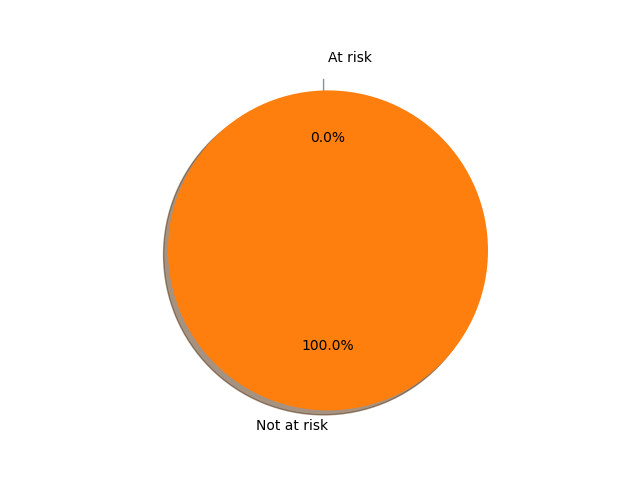
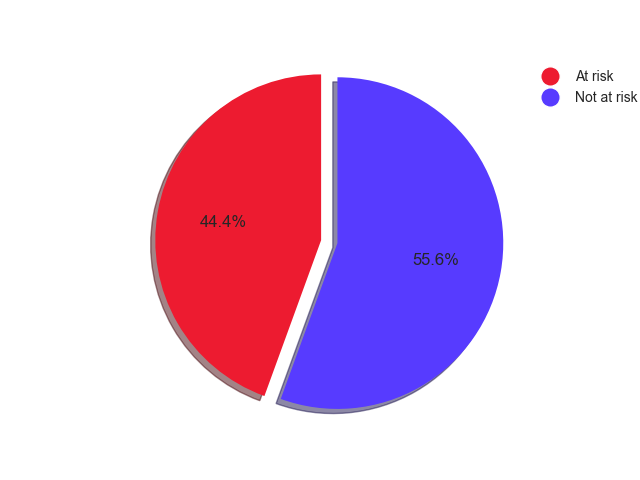
Updated statistics page

diff --git a/frontend-medical-chatbot/src/app/user-experience/user-experience.component.html b/frontend-medical-chatbot/src/app/user-experience/user-experience.component.html
@@ -12,22 +12,22 @@
           <div class="col-sm-4 text-center statistic-tile">
               <div class="tile blue">
                 <h3 class="title">Heart disease prediction</h3>
-                <img src="../../assets/images/statistics/faq.PNG" class="statistics-tile-image img-fluid ">
-                <p>Short, sweet data point goes here.</p>
+                <img src="../../assets/images/statistics/users_asked_for_cvd_prediction.png" class="statistics-tile-image img-fluid ">
+                <!-- <p>Short, sweet data point goes here.</p> -->
               </div>
           </div>
           <div class="col-sm-4 text-center statistic-tile">
               <div class="tile blue">
-                <h3 class="title">Users that found advice useful</h3>
-                <img src="../../assets/images/statistics/faq.PNG" class="statistics-tile-image img-fluid ">
-                <p>Short, sweet data point goes here.</p>
+                <h3 class="title">Users found advice useful</h3>
+                <img src="../../assets/images/statistics/users_found_advice_useful.png" class="statistics-tile-image img-fluid ">
+                <!-- <p>Short, sweet data point goes here.</p> -->
               </div>
           </div>
           <div class="col-sm-4 text-center statistic-tile">
             <div class="tile blue">
               <h3 class="title">Users asked FAQ</h3>
-              <img src="../../assets/images/statistics/faq.PNG" class="statistics-tile-image img-fluid ">
-              <p>Short, sweet data point goes here.</p>
+              <img src="../../assets/images/statistics/users_asked_faq.png" class="statistics-tile-image img-fluid ">
+              <!-- <p>Short, sweet data point goes here.</p> -->
             </div>
         </div>
         </div>

diff --git a/frontend-medical-chatbot/src/app/app.component.html b/frontend-medical-chatbot/src/app/app.component.html
@@ -37,17 +37,17 @@
     <div class="collapse navbar-collapse" id="navbarResponsive">
       <ul class="navbar-nav ml-auto">
         <li class="nav-item">
-          <a class="nav-link text-secondary h6" href="#" routerLink = "/home" routerLinkActive= "active">HOME</a>           
+          <a class="nav-link text-secondary h6" href="#" routerLink = "/home" routerLinkActive= "active"><i class="bi bi-house-door"></i> HOME</a>           
         </li>
         <li class="nav-item">
-          <a class="nav-link text-secondary h6" href="#about">ABOUT</a>
+          <a class="nav-link text-secondary h6" href="#about"><i class="bi bi-info-square"></i> ABOUT</a>
         </li>
         <li class="nav-item">
-          <a class="nav-link text-secondary h6" href="#" routerLink = "/chatbot" routerLinkActive= "active">CHAT</a>
+          <a class="nav-link text-secondary h6" href="#" routerLink = "/chatbot" routerLinkActive= "active"><i class="bi bi-chat-left"></i> CHAT</a>
         </li>
         <li class="nav-item">
           <nav>
-            <a class="nav-link text-secondary h6" href="#" routerLink = "/user-experience" routerLinkActive= "active">USER EXPERIENCE</a>
+            <a class="nav-link text-secondary h6" href="#" routerLink = "/user-experience" routerLinkActive= "active"><i class="bi bi-people"></i> USER EXPERIENCE</a>
           </nav>
         </li>
       </ul>

diff --git a/frontend-medical-chatbot/src/app/user-experience/user-experience.component.css b/frontend-medical-chatbot/src/app/user-experience/user-experience.component.css
@@ -1,8 +1,19 @@
+@import "~bootstrap-icons/font/bootstrap-icons.css";
+
  body {
 	 font-size: 14px;
 	 line-height: 1.5em;
 	 font-weight: 400;
 }
+
+#user-experience{
+	background-color: aliceblue;
+}
+
+.bi-people{
+	font-size:36px;
+}
+
  strong {
 	 font-weight: 600;
 }
@@ -23,9 +34,16 @@
 	 margin-bottom: 10px;
      box-shadow: 5px 5px 5px rgb(198, 196, 196);
      border-radius: 5px;
+	 border-style: inset;
 }
  .tile .title {
 	 margin-top: 0px;
+	 color:black;
+	 font-weight:400;
+}
+
+.tile p {
+	color:black;
 }
  .tile.purple, .tile.blue, .tile.red, .tile.orange, .tile.green {
 	 color: #fff;
@@ -50,7 +68,8 @@
 }
  .tile.blue {
 	 /* background: #2672ec; */
-     background: #0A58D4;
+     /* background: #0A58D4; */
+	 background: rgb(255, 255, 255);
 
 }
  .tile.blue:hover {
@@ -67,6 +86,7 @@
 .statistics-tile-image{
     /* max-width: 300px;
     height:auto; */
+	max-width: 70%;
 }
 
 .statistic-tile{

diff --git a/frontend-medical-chatbot/src/app/app.component.css b/frontend-medical-chatbot/src/app/app.component.css
@@ -25,3 +25,7 @@
     
 }
 
+.bi-people{
+    font-size:18px;
+}
+

diff --git a/rasa-chatbot/compute_statistics/statistics.py b/rasa-chatbot/compute_statistics/statistics.py
@@ -3,6 +3,9 @@ from matplotlib import pyplot as plt
 from datetime import datetime
 from matplotlib import rcParams
 import numpy as np
+from math import pi
+from matplotlib.lines import Line2D
+
 
 class Statistics:
     def __init__(self, path):
@@ -71,14 +74,28 @@ class Statistics:
         plt.savefig('../frontend-medical-chatbot/src/assets/images/statistics/gender_ratio.png',transparent=True)
 
     def compute_statistics_cvd_prediction_ratio(self):
-        # Pie chart, where the slices will be ordered and plotted counter-clockwise:
         labels = 'At risk', 'Not at risk'
         sizes = [self.get_count_cvd_prediction_true(), self.get_count_cvd_prediction_false()]
         explode = (0.1, 0)  # only "explode" the 2nd slice (i.e. 'Hogs')
+        mycolors = ["#ED1B30", "#573BFF"]
         fig1, ax1 = plt.subplots()
-        ax1.pie(sizes, explode=explode, labels=labels, autopct='%1.1f%%',
+        ax1.pie(sizes, explode=explode, colors=mycolors, autopct='%1.1f%%', textprops={'fontsize': 12},
                 shadow=True, startangle=90)
         ax1.axis('equal')  # Equal aspect ratio ensures that pie is drawn as a circle.
+
+        legend_elements = [
+            Line2D([0], [0], marker='o', color='w', label='At risk', markerfacecolor='#ED1B30', markersize=14),
+            Line2D([0], [0], marker='o', color='w', label='Not at risk', markerfacecolor='#573BFF', markersize=14)]
+
+        plt.legend(handles=legend_elements, bbox_to_anchor=(1.15, 1), frameon=False)
+        # Pie chart, where the slices will be ordered and plotted counter-clockwise:
+        # labels = 'At risk', 'Not at risk'
+        # sizes = [self.get_count_cvd_prediction_true(), self.get_count_cvd_prediction_false()]
+        # explode = (0.1, 0)  # only "explode" the 2nd slice (i.e. 'Hogs')
+        # fig1, ax1 = plt.subplots()
+        # ax1.pie(sizes, explode=explode, labels=labels, autopct='%1.1f%%',
+        #         shadow=True, startangle=90)
+        # ax1.axis('equal')  # Equal aspect ratio ensures that pie is drawn as a circle.
         # plt.show()
         plt.savefig('../frontend-medical-chatbot/src/assets/images/statistics/cvd_prediction_ratio.png',transparent=True)
 
@@ -92,12 +109,12 @@ class Statistics:
         width = 0.35  # the width of the bars
 
         fig, ax = plt.subplots()
-        rects1 = ax.bar(x + width/2, no_means, width, label='No')
-        rects2 = ax.bar(x - width/2, yes_means, width, label='Yes')
+        rects1 = ax.bar(x + width/2, no_means, width, label='No', color='#00C3F9')
+        rects2 = ax.bar(x - width/2, yes_means, width, label='Yes', color='#ED1B30')
 
         # Add some text for labels, title and custom x-axis tick labels, etc.
         ax.set_ylabel('Scores')
-        ax.set_title('User habits')
+        # ax.set_title('User habits')
         ax.set_xticks(x, labels)
         ax.legend()
         ax.bar_label(rects1, padding=3)
@@ -109,21 +126,40 @@ class Statistics:
         # plt.show()
         plt.savefig('../frontend-medical-chatbot/src/assets/images/statistics/user_habits.png',transparent=True)
     def compute_statistics_users_blood_pressure(self):
-        # Pie chart, where the slices will be ordered and plotted counter-clockwise:
         labels = 'Low', 'Normal', 'Elevated', "Hypertension"
         sizes = [self.get_count_user_has_low_bp(), self.get_count_user_has_normal_bp(),self.get_count_user_has_elevated_bp(), self.get_count_user_has_hypertension_bp()]
         explode = (0, 0, 0.1, 0)  # only "explode" the 2nd slice (i.e. 'Hogs')
-
+        mycolors = ["#00C3F9", "#573BFF", "#FF4756", "#ED1B30"]
         fig1, ax1 = plt.subplots()
-        ax1.pie(sizes, explode=explode, labels=labels, autopct='%1.1f%%',
+        ax1.pie(sizes, explode=explode, colors=mycolors, autopct='%1.1f%%', textprops={'fontsize': 12},
                 shadow=True, startangle=90)
         ax1.axis('equal')  # Equal aspect ratio ensures that pie is drawn as a circle.
+
+        legend_elements = [
+            Line2D([0], [0], marker='o', color='w', label='Low', markerfacecolor='#00C3F9', markersize=14),
+            Line2D([0], [0], marker='o', color='w', label='Normal', markerfacecolor='#573BFF', markersize=14),
+            Line2D([0], [0], marker='o', color='w', label='Elevated', markerfacecolor='#FF4756', markersize=14),
+            Line2D([0], [0], marker='o', color='w', label='Hypertension', markerfacecolor='#ED1B30', markersize=14)]
+
+        plt.legend(handles=legend_elements, bbox_to_anchor=(1.15, 1), frameon=False)
+
+
+        # # Pie chart, where the slices will be ordered and plotted counter-clockwise:
+        # labels = 'Low', 'Normal', 'Elevated', "Hypertension"
+        # sizes = [self.get_count_user_has_low_bp(), self.get_count_user_has_normal_bp(),self.get_count_user_has_elevated_bp(), self.get_count_user_has_hypertension_bp()]
+        # explode = (0, 0, 0.1, 0)  # only "explode" the 2nd slice (i.e. 'Hogs')
+        #
+        # fig1, ax1 = plt.subplots()
+        # ax1.pie(sizes, explode=explode, labels=labels, autopct='%1.1f%%',
+        #         shadow=True, startangle=90)
+        # ax1.axis('equal')  # Equal aspect ratio ensures that pie is drawn as a circle.
 
         # plt.show()
         plt.savefig('../frontend-medical-chatbot/src/assets/images/statistics/users_blood_pressure.png',transparent=True)
 
 
     def compute_statistics_user_responses_by_month(self):
+        plt.style.use("seaborn-darkgrid")
         current_year = datetime.now().year
         current_month = datetime.now().month
         self.data['timestamp'] = pd.to_datetime(self.data['timestamp'], format="%Y-%m-%d %H:%M:%S")
@@ -152,46 +188,84 @@ class Statistics:
 
         plt.ylim(0)
 
-        plt.fill_between(months, responses_array)
+        # plt.fill_between(months, responses_array)
         plt.xlabel("Month")
         plt.ylabel("Number of responses")
-        plt.title("Number of entries")
+        # plt.title("Number of entries")
 
         # plt.show()
         plt.savefig('../frontend-medical-chatbot/src/assets/images/statistics/graph_queries_by_month.png',transparent=True)
 
 
     def compute_statistics_users_found_advice_useful(self):
-        fig, ax = plt.subplots(figsize=(6, 6))
-        wedgeprops = {'width':0.3, 'edgecolor':'black', 'linewidth':3}
-        ax.pie([self.get_count_found_advice_useful(),self.get_count_asked_for_advice()-self.get_count_found_advice_useful()], wedgeprops=wedgeprops, startangle=90, colors=['#5DADE2', '#515A5A'])
-        plt.title('Users found advice useful', fontsize=24, loc='left')
-        percentage = round((self.get_count_found_advice_useful()/self.get_count_asked_for_advice())*100, 1)
-        plt.text(0, 0, str(percentage)+"%", ha='center', va='center', fontsize=42)
-        # plt.show()
+        fig, ax = plt.subplots(figsize=(6, 6), subplot_kw={'projection': 'polar'})
+        data = round((self.get_count_found_advice_useful()/self.get_count_asked_for_advice())*100, 1)
+        startangle = 90
+        x = (data * pi * 2) / 100
+        left = (startangle * pi * 2) / 360  # this is to control where the bar starts
+        plt.xticks([])
+        plt.yticks([])
+        ax.spines.clear()
+        ax.barh(1, x, left=left, height=1, color='#ED1B30')
+        plt.ylim(-3, 3)
+        plt.text(0, -3, str(data)+"%", ha='center', va='center', fontsize=42)
+        # fig, ax = plt.subplots(figsize=(6, 6))
+        # wedgeprops = {'width':0.3, 'edgecolor':'black', 'linewidth':3}
+        # ax.pie([self.get_count_found_advice_useful(),self.get_count_asked_for_advice()-self.get_count_found_advice_useful()], wedgeprops=wedgeprops, startangle=90, colors=['#5DADE2', '#515A5A'])
+        # plt.title('Users found advice useful', fontsize=24, loc='left')
+        # percentage = round((self.get_count_found_advice_useful()/self.get_count_asked_for_advice())*100, 1)
+        # plt.text(0, 0, str(percentage)+"%", ha='center', va='center', fontsize=42)
+        # # plt.show()
         plt.savefig('../frontend-medical-chatbot/src/assets/images/statistics/users_found_advice_useful.png',transparent=True)
 
-
     def compute_statistics_users_asked_for_cvd_prediction(self):
-        fig, ax = plt.subplots(figsize=(6, 6))
-        wedgeprops = {'width':0.3, 'edgecolor':'black', 'linewidth':3}
-        ax.pie([self.get_count_asked_for_cvd_prediction(), self.get_count_user_began_conversation()-self.get_count_asked_for_cvd_prediction()], wedgeprops=wedgeprops, startangle=90, colors=['#5DADE2', '#515A5A'])
-        plt.title('Users asked for CVD prediction', fontsize=24, loc='left')
-        percentage = round((self.get_count_asked_for_cvd_prediction()/self.get_count_user_began_conversation())*100, 1)
-        plt.text(0, 0, str(percentage)+"%", ha='center', va='center', fontsize=42)
+        fig, ax = plt.subplots(figsize=(6, 6), subplot_kw={'projection': 'polar'})
+
+        data = round((self.get_count_asked_for_cvd_prediction()/self.get_count_user_began_conversation())*100, 1)
+        startangle = 90
+
+        x = (data * pi * 2) / 100
+        left = (startangle * pi * 2) / 360  # this is to control where the bar starts
+
+        plt.xticks([])
+        plt.yticks([])
+        ax.spines.clear()
+        ax.barh(1, x, left=left, height=1, color='#ED1B30')
+        plt.ylim(-3, 3)
+        plt.text(0, -3, str(data)+"%", ha='center', va='center', fontsize=42)
+        # fig, ax = plt.subplots(figsize=(6, 6))
+        # wedgeprops = {'width':0.3, 'edgecolor':'black', 'linewidth':3}
+        # ax.pie([self.get_count_asked_for_cvd_prediction(), self.get_count_user_began_conversation()-self.get_count_asked_for_cvd_prediction()], wedgeprops=wedgeprops, startangle=90, colors=['#5DADE2', '#515A5A'])
+        # plt.title('Users asked for CVD prediction', fontsize=24, loc='left')
+        # percentage = round((self.get_count_asked_for_cvd_prediction()/self.get_count_user_began_conversation())*100, 1)
+        # plt.text(0, 0, str(percentage)+"%", ha='center', va='center', fontsize=42)
         # plt.show()
         # plt.savefig('./compute_statistics/statistics_images/users_asked_for_cvd_prediction.png')
         plt.savefig('../frontend-medical-chatbot/src/assets/images/statistics/users_asked_for_cvd_prediction.png',transparent=True)
 
 
     def compute_statistics_users_asked_faq(self):
-        fig, ax = plt.subplots(figsize=(6, 6))
-        wedgeprops = {'width': 0.3, 'edgecolor': 'black', 'linewidth': 3}
-        ax.pie([self.get_count_user_asked_faq(), self.get_count_user_began_conversation() - self.get_count_user_asked_faq()], wedgeprops=wedgeprops,
-               startangle=90, colors=['#5DADE2', '#515A5A'])
-        plt.title('Users asked FAQ', fontsize=24, loc='left')
-        percentage = round((self.get_count_user_asked_faq() / self.get_count_user_began_conversation()) * 100, 1)
-        plt.text(0, 0, str(percentage) + "%", ha='center', va='center', fontsize=42)
+        fig, ax = plt.subplots(figsize=(6, 6), subplot_kw={'projection': 'polar'})
+
+        data = round((self.get_count_user_asked_faq() / self.get_count_user_began_conversation()) * 100, 1)
+        startangle = 90
+
+        x = (data * pi * 2) / 100
+        left = (startangle * pi * 2) / 360  # this is to control where the bar starts
+
+        plt.xticks([])
+        plt.yticks([])
+        ax.spines.clear()
+        ax.barh(1, x, left=left, height=1, color='#ED1B30')
+        plt.ylim(-3, 3)
+        plt.text(0, -3, str(data) + "%", ha='center', va='center', fontsize=42)
+        # fig, ax = plt.subplots(figsize=(6, 6))
+        # wedgeprops = {'width': 0.3, 'edgecolor': 'black', 'linewidth': 3}
+        # ax.pie([self.get_count_user_asked_faq(), self.get_count_user_began_conversation() - self.get_count_user_asked_faq()], wedgeprops=wedgeprops,
+        #        startangle=90, colors=['#5DADE2', '#515A5A'])
+        # plt.title('Users asked FAQ', fontsize=24, loc='left')
+        # percentage = round((self.get_count_user_asked_faq() / self.get_count_user_began_conversation()) * 100, 1)
+        # plt.text(0, 0, str(percentage) + "%", ha='center', va='center', fontsize=42)
         # plt.show()
         plt.savefig('../frontend-medical-chatbot/src/assets/images/statistics/users_asked_faq.png',transparent=True)
 
